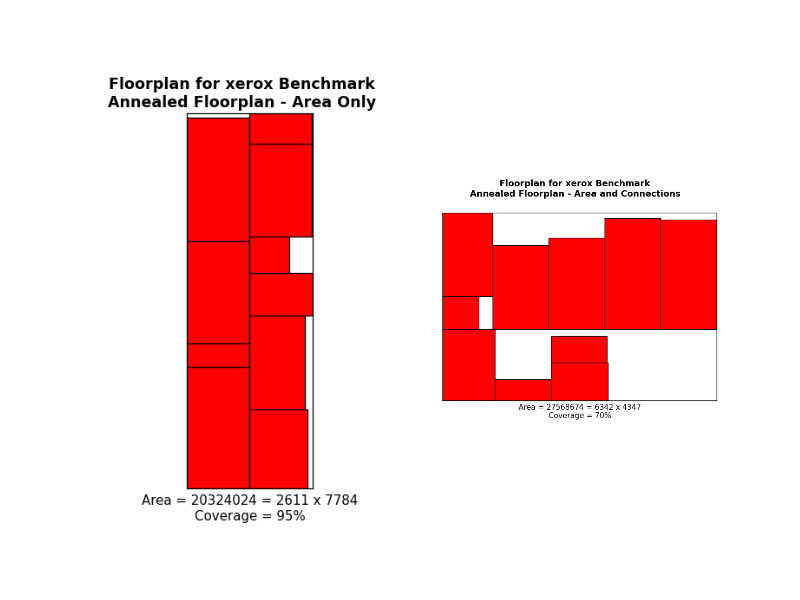
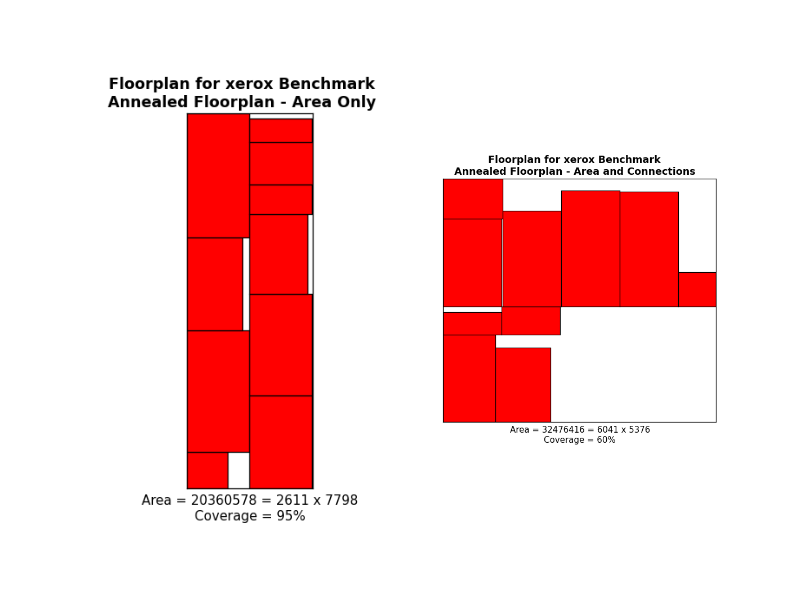
Final results

diff --git a/finalReport.py b/finalReport.py
@@ -10,7 +10,7 @@ import random
 
 #annealingParameters = classes.AnnealingParameters(100,.85,5,.05,1,1) # For testing
 #annealingParameters = classes.AnnealingParameters(1000,.8,10,.01,1000,1) # For final
-annealingParameters = classes.AnnealingParameters(1000,.8,10,.01,1000,1) # For final (longer run)
+annealingParameters = classes.AnnealingParameters(5000,.8,10,.01,10000,1) # For final (longer run)
 
 random.seed(1000) # Set seed so we can reproduce results
 
